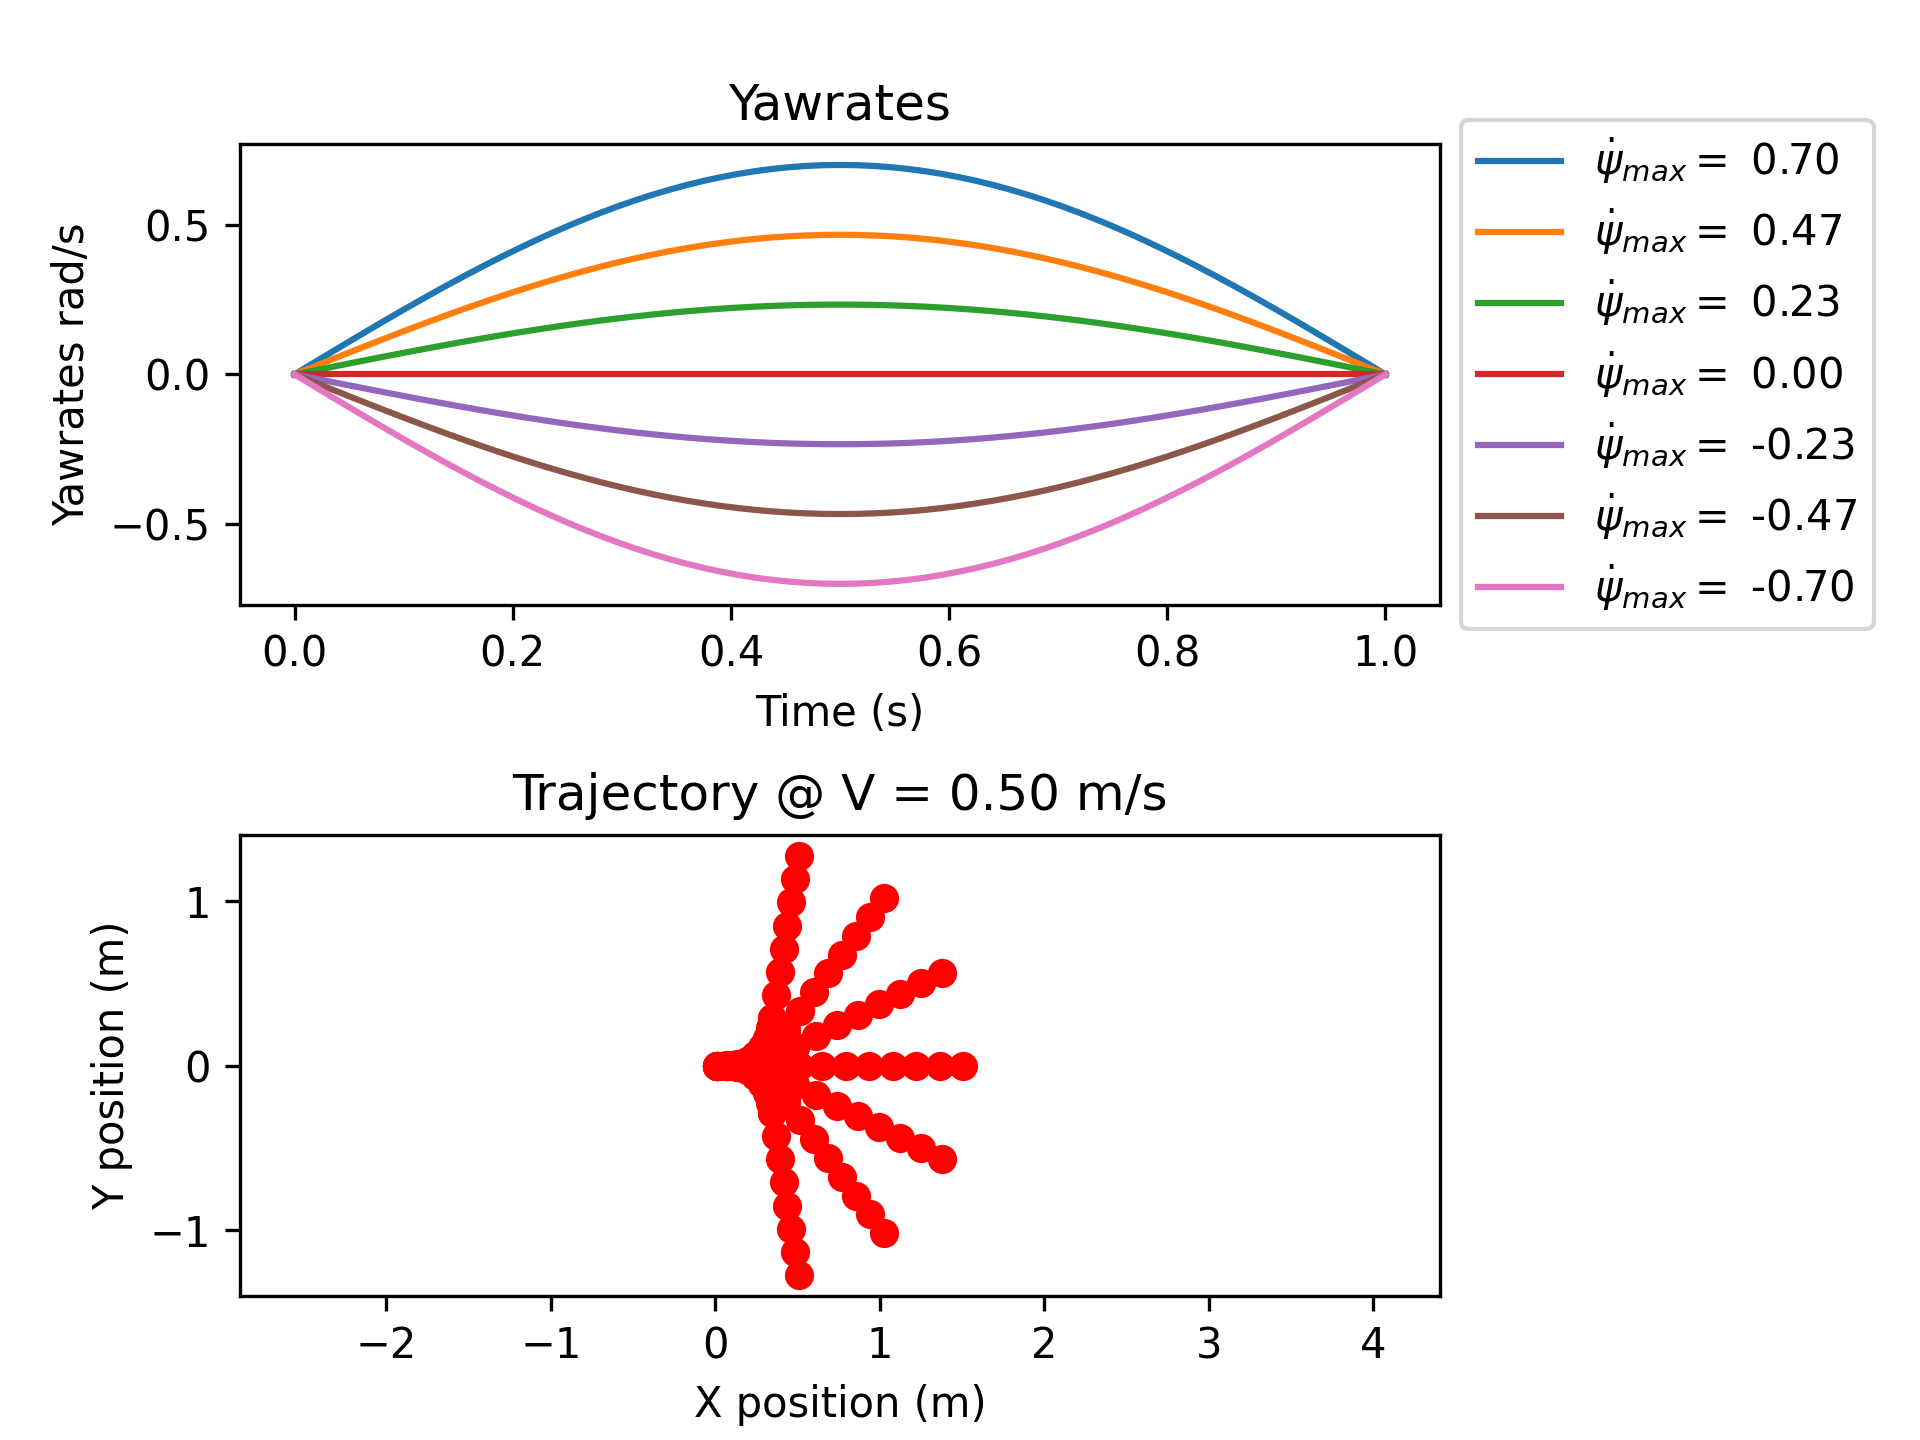
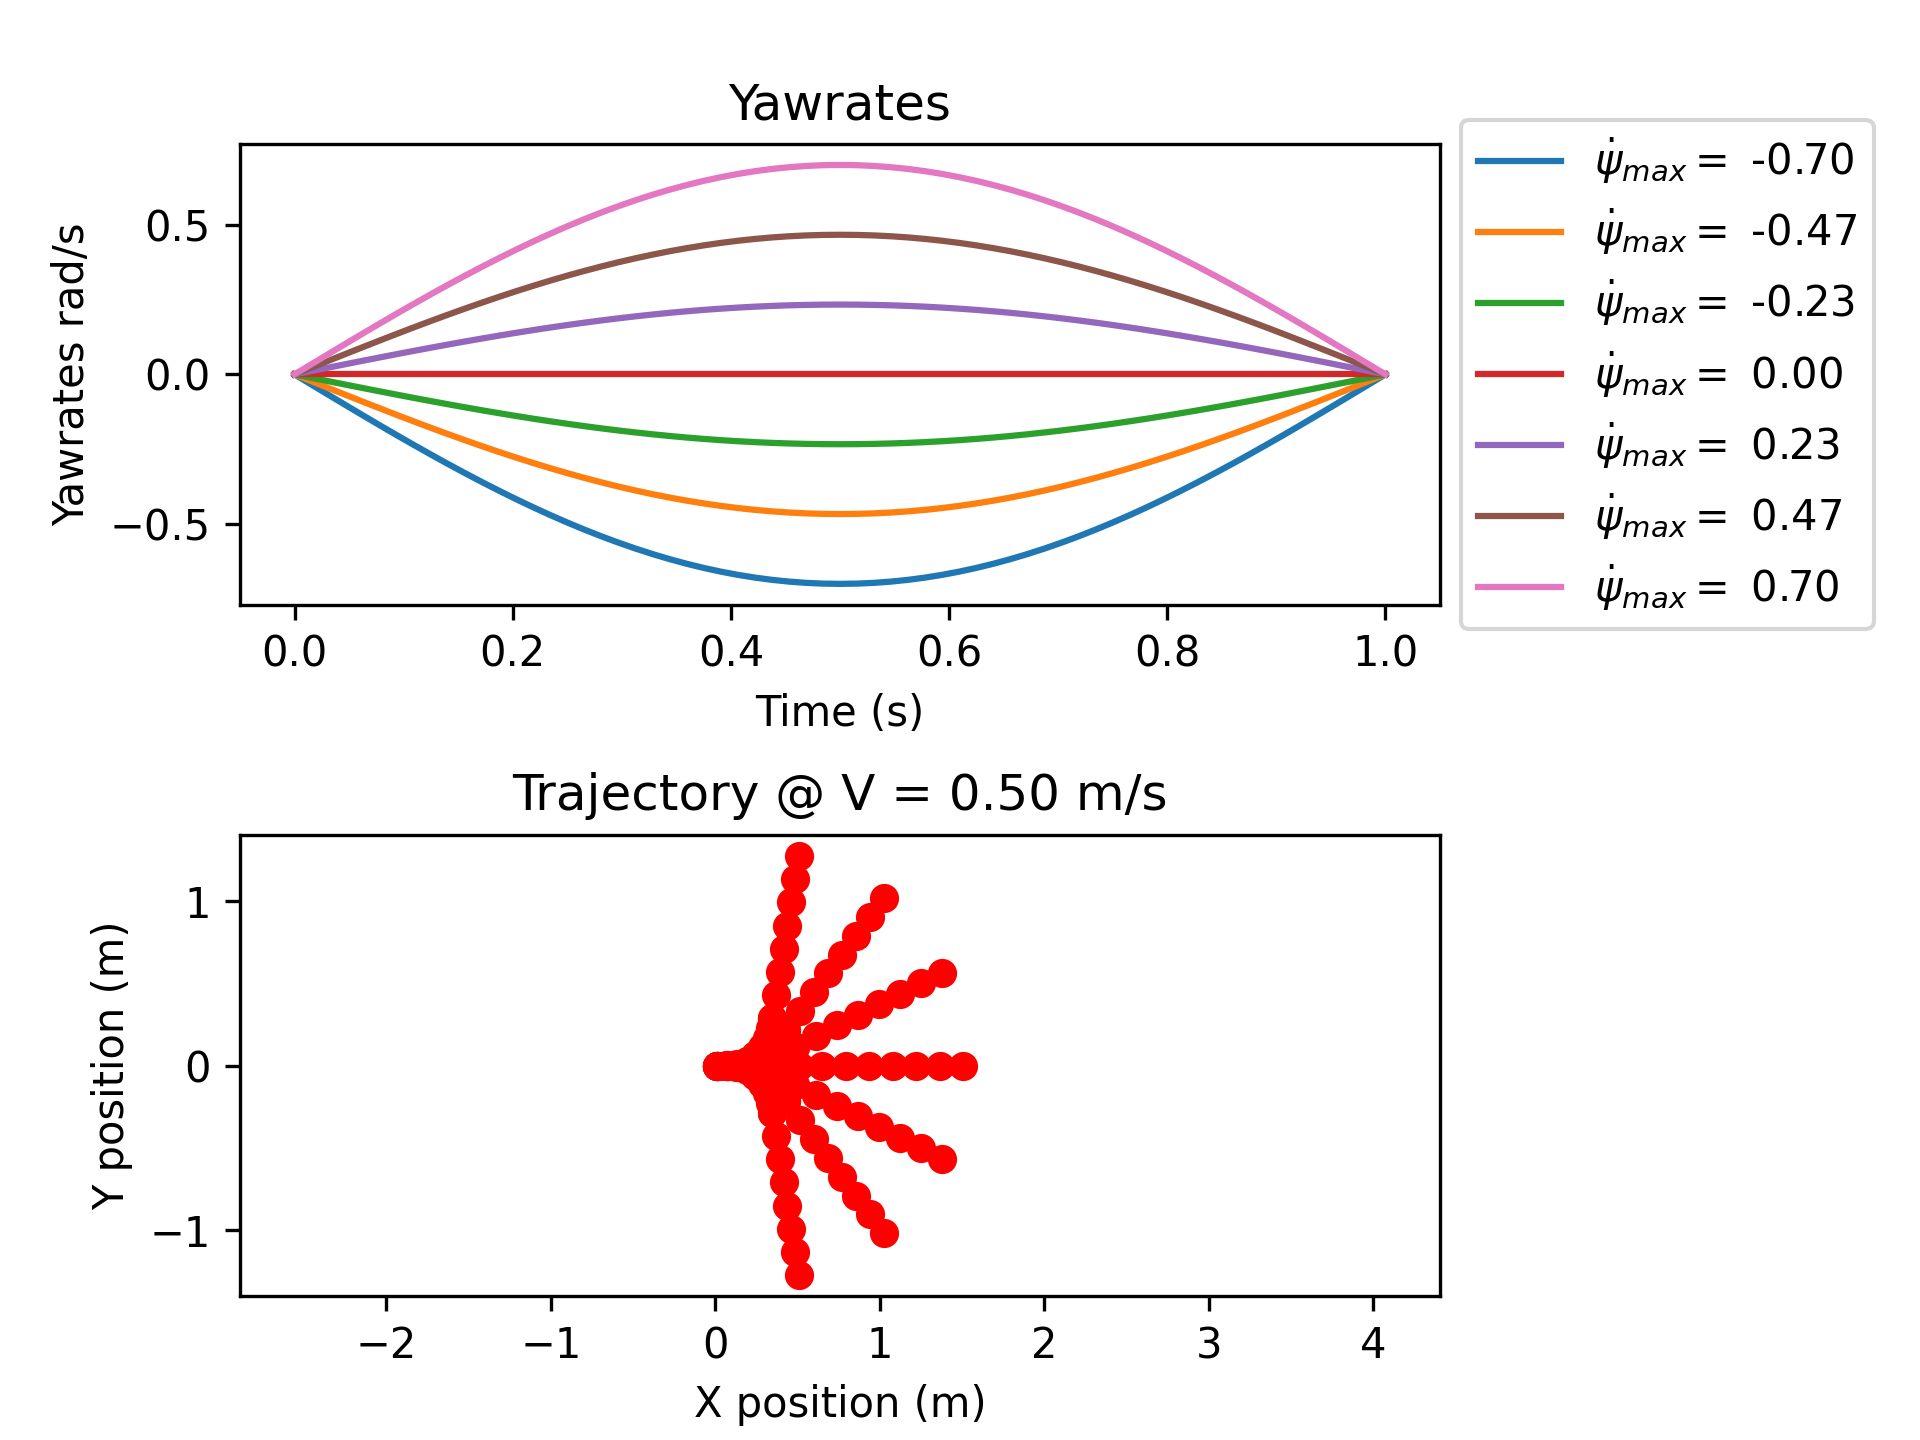
Correct traj indices ordering and other improvements

diff --git a/mononav.py b/mononav.py
@@ -107,7 +107,7 @@ weight_threshold = config['weight_threshold'] # for planning and visualization (
 if config['VoxelBlockGrid']['device'] != "None": 
     device = config['VoxelBlockGrid']['device']
 else:
-    device = 'CUDA:0' if torch.cuda.is_available() else 'CPU:0'
+    device = 'CUDA:0' if o3d.core.cuda.is_available() else 'CPU:0'
 
 vbg = VoxelBlockGrid(depth_scale, depth_max, trunc_voxel_multiplier, o3d.core.Device(device), intrinsic_matrix=fusion_intrinsics)
 
@@ -117,6 +117,7 @@ traj_list = get_trajlist(trajlib_dir)
 traj_linesets, period, forward_speed, amplitudes = get_traj_linesets(traj_list)
 max_traj_idx = int(len(traj_list)/2) # set initial value to that of FORWARD flight (should be median value)
 print("Initial trajectory chosen: %d out of %d"%(max_traj_idx, len(traj_list)))
+print(f"Trajectory amplitudes: left(idx 0)={float(amplitudes[0]):.3f}, right(idx {len(amplitudes)-1})={float(amplitudes[-1]):.3f}")
 
 # Planning presets
 filterYvals = config['filterYvals']
@@ -183,7 +184,9 @@ def trajectory_execution_loop(command_hz=10):
     period_s = 1.0 / max(command_hz, 1)
     next_command = time.monotonic()
     
+    # log whenever the execution loop begins iteration (for debugging thread activity)
     while not trajectory_execution_stop_event.is_set():
+        # (current_traj_index may be None until a trajectory is selected)
         if current_traj_index is not None and trajectory_start_time is not None:
             elapsed = time.time() - trajectory_start_time
             
@@ -192,10 +195,10 @@ def trajectory_execution_loop(command_hz=10):
                 # Compute smooth yaw rate for this instant
                 yawrate = amplitudes[current_traj_index] * np.sin(np.pi / period * elapsed)  # rad/s
                 yvel = yawrate * yvel_gain
-                yawrate_cmd = yawrate * yawrate_gain
-                
+                yawrate = yawrate * yawrate_gain
+                print(f"yawrate: {yawrate*180/np.pi}", flush=True)
                 if FLY_VEHICLE:
-                    mavc.send_body_offset_ned_vel(forward_speed, yvel, yaw_rate=yawrate_cmd)
+                    mavc.send_body_offset_ned_vel(forward_speed, yvel, yaw_rate=yawrate)
         
         next_command += period_s
         sleep_time = next_command - time.monotonic()
@@ -209,11 +212,26 @@ def main():
     global shouldStop
     global last_key_pressed
     global max_traj_idx
+    global current_traj_index
+    global trajectory_start_time
     global mtx
     global dist
     global optimal_mtx
     global roi
     global goal_position
+
+    while True:
+        # ARDUCOPTER CONTROL
+        # Connect to the drone
+        mavc.connect_drone(IP, baud=baud)
+        mavc.en_pose_stream()                    # Commands AP to stream poses at a deafult value of 15 Hz
+        mavc.set_ekf_origin(EKF_LAT, EKF_LON, 0) # Ignored if already close to the previous origin, if set
+        reboot = mavc.reboot_if_EKF_origin(0.5)  # Call this function after enabling pose_stream
+        if reboot:
+            mavc.printd("Rebooted drone to set EKF origin. Waiting for reconnection...")
+            time.sleep(7)   # Wait for drone to reboot
+            continue        # Restart connection loop
+        break
 
     # Run the depth model a few times (the first inference is slow), and skip the first few frames
     cap = VideoCapture(STREAM_URL)
@@ -242,13 +260,6 @@ def main():
             cv2.imshow("test", bgr)
             update_key_from_cv()
         cv2.destroyAllWindows()
-        
-    # ARDUCOPTER CONTROL
-    # Connect to the drone
-        mavc.connect_drone(IP, baud=baud)
-        mavc.en_pose_stream()                    # Commands AP to stream poses at a deafult value of 15 Hz
-        mavc.reboot_if_EKF_origin(0.5)           # Call this function after enabling pose_stream
-        mavc.set_ekf_origin(EKF_LAT, EKF_LON, 0) # Ignored if already close to the previous origin, if set
 
     # Initialize lists and frame counter.
         frame_number = 0
@@ -291,7 +302,7 @@ def main():
                 traj_index = 0 # left
             elif last_key_pressed == 'w':
                 print("Pressed w. Going straight.")
-                traj_index = int(len(traj_list)/2) # straight
+                traj_index = len(traj_list)//2 # straight
             elif last_key_pressed == 'd':
                 print("Pressed d. Going right.")
                 traj_index = len(traj_list)-1 # right
@@ -394,22 +405,17 @@ def main():
             shouldStop, max_traj_idx = choose_primitive(vbg.vbg, camera_position, traj_linesets, goal_position, min_dist2obs, filterYvals, filterWeights, filterTSDF, weight_threshold)
             if max_traj_idx is None:
                 no_safe_traj = True
-                shouldStop = True
-                print("[INFO]No safe trajectory. Hovering in place.")
+                # shouldStop = True
+                print("[INFO] No safe trajectory. Hovering in place.")
             else:
                 no_safe_traj = False
             print("SELECTED max_traj_idx: ", max_traj_idx)
 
     # Exited while(!shouldStop); end control!
-        print("shouldStop: ", shouldStop)
-        print("[INFO] Reached goal OR too close to obstacles.")
+        # print("shouldStop: ", shouldStop)
+        # print(f"[INFO] {end_message}")
         print("[INFO] End control.")
-
-        if FLY_VEHICLE:
-            # Stopping sequence
-            print("Landing.")
-            mavc.set_mode('LAND')
-            mavc.arm(0)
+        print("[INFO] Current NED coords:" , camera_position[0:-1, -1])
 
         # save and view vbg
         print("Saving to {}...".format(npz_save_filename))
@@ -424,9 +430,9 @@ def main():
         visualize_pointcloud(pcd_legacy, window_name="MonoNav Reconstruction")
 
     except KeyboardInterrupt:
-        mavc.eSTOP()
-        print("\n[INTERRUPT] Ctrl+C detected. Sent eSTOP.")
-        shouldStop = True
+        mavc.set_mode('LAND')
+        print("\n[INTERRUPT] Ctrl+C detected. Sent land command.")
+        # shouldStop = True
             
     finally:
         # Stop trajectory execution thread

diff --git a/AP_ObstacleAvoidance.py b/AP_ObstacleAvoidance.py
@@ -112,6 +112,8 @@ DEPTH_WIDTH = None
 DEPTH_HEIGHT = None
 distances_lock = threading.Lock()
 obstacle_sender_stop_event = threading.Event()
+# Event and thread for periodic timesync calls
+timesync_stop_event = threading.Event()
 
 # Intrinsics for undistortion
 camera_calibration_path = config['camera_calibration_path']
@@ -335,22 +337,23 @@ def distances_from_depth_image(obstacle_line_height, depth_mat, distances, min_d
         if dist_m > min_depth_m and dist_m < max_depth_m:
             distances[i] = dist_m * 100
 
-
-def cleanup_call(action_name, func, *args, **kwargs):
-    """Run a cleanup action and log failures without aborting overall shutdown."""
-    try:
-        return func(*args, **kwargs)
-    except Exception as e:
-        mavc.printd(f"[CLEANUP] Failed to {action_name}: {e}")
-        return None
-
+def _timesync_loop(period_s, stop_event):
+    """Background loop that calls mavc.timesync() every `period_s` seconds.
+    Exits when `stop_event` is set."""
+    next_call = time.monotonic()
+    while not stop_event.is_set():
+        mavc.timesync()
+        next_call += period_s
+        sleep_time = next_call - time.monotonic()
+        if sleep_time > 0:
+            stop_event.wait(sleep_time)
 
 def save_and_visualize_vbg(vbg, npz_save_filename, weight_threshold):
-    mavc.printd("[CLEANUP] Saving VoxelBlockGrid to {}...".format(npz_save_filename))
+    mavc.printd(" Saving VoxelBlockGrid to {}...".format(npz_save_filename))
     vbg.vbg.save(npz_save_filename)
-    mavc.printd("[CLEANUP] VoxelBlockGrid saved successfully")
+    mavc.printd(" VoxelBlockGrid saved successfully")
 
-    mavc.printd("[CLEANUP] Extracting and visualizing point cloud...")
+    mavc.printd(" Extracting and visualizing point cloud...")
     pcd = vbg.vbg.extract_point_cloud(weight_threshold)
     pcd_cpu = pcd.cpu()
     pcd_legacy = pcd_cpu.to_legacy()
@@ -369,23 +372,37 @@ def main():
 
     goal_nav_active = False  # Track if goal navigation command has been sent
 
+    while True:
+        vehicle = mavc.connect_drone(IP, baud=baud)
+        mavc.set_ekf_origin(EKF_LAT, EKF_LON, 0)
+        mavc.en_pose_stream()
+        reboot = mavc.reboot_if_EKF_origin(0.5)
+        if reboot:
+            mavc.printd("Rebooted drone to set EKF origin. Waiting for reconnection...")
+            time.sleep(7)   # Wait for drone to reboot
+            continue        # Restart connection loop
+        break
+
+    sender_thread = None
+    last_time = time.time()
+    # periodic timesync interval (0.1 Hz)
+    timesync_period_s = 10.0  # seconds
+    frame_number = 0
+    # start timesync thread
+    timesync_stop_event.clear()
+    timesync_thread = threading.Thread(
+        target=_timesync_loop,
+        args=(timesync_period_s, timesync_stop_event),
+        daemon=True,
+    )
+    timesync_thread.start()
+    
     cap = VideoCapture(STREAM_URL)
     for _ in range(0, config['num_pre_depth_frames']):
         bgr = cap.read()
         compute_depth(bgr, depth_anything, INPUT_SIZE, make_colormap=False)
         cv2.waitKey(1)
     cv2.destroyAllWindows()
-
-    vehicle = mavc.connect_drone(IP, baud=baud)
-    mavc.set_ekf_origin(EKF_LAT, EKF_LON, 0)
-    mavc.en_pose_stream()
-    start_pose_thread()  # Start background pose polling at 10 Hz (non-blocking)
-    mavc.reboot_if_EKF_origin(0.3) 
-    mavc.timesync()
-
-    sender_thread = None
-    last_time = time.time()
-    frame_number = 0
 
     # Scale intrinsics if camera resolution differs from calibration resolution
     first_frame = cap.read()
@@ -429,6 +446,7 @@ def main():
         mavc.takeoff(height)
         mavc.set_speed(forward_speed)
 
+    start_pose_thread()  # Start background pose polling at 10 Hz (non-blocking)
     mavc.heading_offset_init()
         # Keep goal_position in RDF frame (same as camera_position from get_drone_pose)
     if goal_position is not None:
@@ -513,6 +531,7 @@ def main():
             
         update_key_from_cv(1)
 
+
         if FLY_VEHICLE:
             if last_key_pressed == 'g':
                 if goal_position is not None:
@@ -560,7 +579,6 @@ def main():
             elif last_key_pressed == 'q':  # end flight immediately
                 print("Pressed q. EMERGENCY STOP.")
                 mavc.eSTOP()
-                shouldStop = True
                 goal_nav_active = False
 
     except KeyboardInterrupt:
@@ -573,30 +591,28 @@ def main():
         shouldStop = True
     finally:
         # Stop background threads
+        print(f"[INFO] Current NED coordinates: {camera_position[0:-1, -1]}")
         mavc.printd("[CLEANUP] Stopping background threads...")
         obstacle_sender_stop_event.set()
         if sender_thread is not None:
             sender_thread.join(timeout=2.0)
+        # stop timesync thread
+        timesync_stop_event.set()
+        timesync_thread.join(timeout=2.0)
 
         # Land vehicle if still flying
         if FLY_VEHICLE and shouldStop:
-            mavc.printd("[CLEANUP] Landing vehicle...")
-            cleanup_call("set LAND mode", mavc.set_mode, 'LAND')
-            time.sleep(1)  # Give time for landing command
+            mavc.printd("Landing vehicle...")
+            mavc.set_mode('LAND')
 
         # Save VoxelBlockGrid (only if enabled)
         if enable_vbg:
-            cleanup_call("save/visualize VoxelBlockGrid", save_and_visualize_vbg, vbg, npz_save_filename, weight_threshold)
-        else:
-            mavc.printd("[CLEANUP] VBG was disabled, skipping save and visualization")
+            save_and_visualize_vbg(vbg, npz_save_filename, weight_threshold)
 
         # Release camera and close windows
         mavc.printd("[CLEANUP] Releasing camera and closing windows...")
-        cleanup_call("release camera", cap.cap.release)
+        cap.cap.release()
         cv2.destroyAllWindows()
-        
-        mavc.printd("[CLEANUP] Shutdown complete.")
-        mavc.printd("="*50)
 
 if __name__ == "__main__":
     main()

diff --git a/utils/mavlink_control.py b/utils/mavlink_control.py
@@ -297,6 +297,8 @@ def reboot_if_EKF_origin(pos_tolerance=0.2):
 
     The globals x/y start at 0 and stay there until a LOCAL_POSITION_NED
     message is received.
+
+    Returns True if reboot command was sent, False otherwise.
     """
 
     for i in range(3):                  # Call multiple times to ensure we get a valid message after enabling the stream
@@ -314,15 +316,17 @@ def reboot_if_EKF_origin(pos_tolerance=0.2):
             0, 0, 0,
             0, 0, 0
         )
+        return True
+    return False
 
 def set_param(param_id, param_value, param_type, timeout=5.0):
-"""
-UNTESTED
+    """
+    UNTESTED
 
-Set a parameter on the autopilot. Use with caution and ensure you know what the parameter does before changing.
-Waits for PARAM_VALUE response to verify successful parameter set with configurable timeout.
-Returns True if parameter was successfully set, False otherwise.
-"""
+    Set a parameter on the autopilot. Use with caution and ensure you know what the parameter does before changing.
+    Waits for PARAM_VALUE response to verify successful parameter set with configurable timeout.
+    Returns True if parameter was successfully set, False otherwise.
+    """
     printd(f"Setting param {param_id} to {param_value}")
     drone.mav.param_set_send(
         drone.target_system,

diff --git a/utils/generate_primitives.py b/utils/generate_primitives.py
@@ -45,7 +45,7 @@ assert max_yawrate > 0, "max_yawrate should be positive"
 # Derived quantities
 omega = np.pi/T                                                  # 1/s, angular frequency
 t = np.linspace(0,T,num_commands)                                # s, time vector
-Avals = np.linspace(max_yawrate, -max_yawrate, num_trajectories) # rad/s, yawrate amplitude vector
+Avals = np.linspace(-max_yawrate, max_yawrate, num_trajectories) # rad/s, yawrate amplitude vector
 
 
 # Create a subplot
